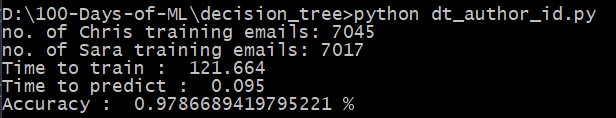
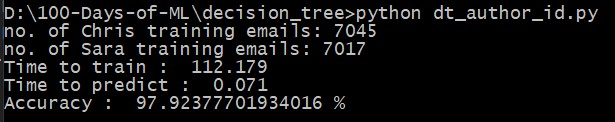
Finished lecture.4 (Decision_trees)

Changed region(s): [[0.0, 0.0, 0.9886, 1.0]]

diff --git a/tools/email_preprocess.py b/tools/email_preprocess.py
@@ -60,7 +60,7 @@ def preprocess(words_file = "D:/100-Days-of-ML/tools/word_data.pkl", authors_fil
 
     ### feature selection, because text is super high dimensional and 
     ### can be really computationally chewy as a result
-    selector = SelectPercentile(f_classif, percentile=1)
+    selector = SelectPercentile(f_classif, percentile=10)
     selector.fit(features_train_transformed, labels_train)
     features_train_transformed = selector.transform(features_train_transformed).toarray()
     features_test_transformed  = selector.transform(features_test_transformed).toarray()

diff --git a/decision_tree/dt_author_id.py b/decision_tree/dt_author_id.py
@@ -40,7 +40,6 @@ from sklearn.metrics import accuracy_score
 
 acc = accuracy_score(labels_test,pred)
 
-print("Accuracy : ",acc,"%")
+print("Accuracy : ",acc*100,"%")
 
-print("No of features :", len(features_train[0]))
 #########################################################

diff --git a/README.md b/README.md
@@ -35,7 +35,7 @@ Joined udacity's [Intro to Machine Learning](https://www.udacity.com/course/intr
 >**Information Gain** is equal to `Entropy(parent)-(weighted average)Entropy(chidlren)`  
 > Decision Trees algorithm tries to **maximize the Information gain** and **minimize the Entropy**
 >>Using this algorithm I have performed a mini project  
->>[decision_tree](/decision_tree/dt_author_id.py) using **sklearn's decision tree** and got **accuracy of 97.866%**.
+>>[decision_tree](/decision_tree/dt_author_id.py) using **sklearn's decision tree** and got **accuracy of 97.923%**.
 
 ### Output of Decision Tree
 
